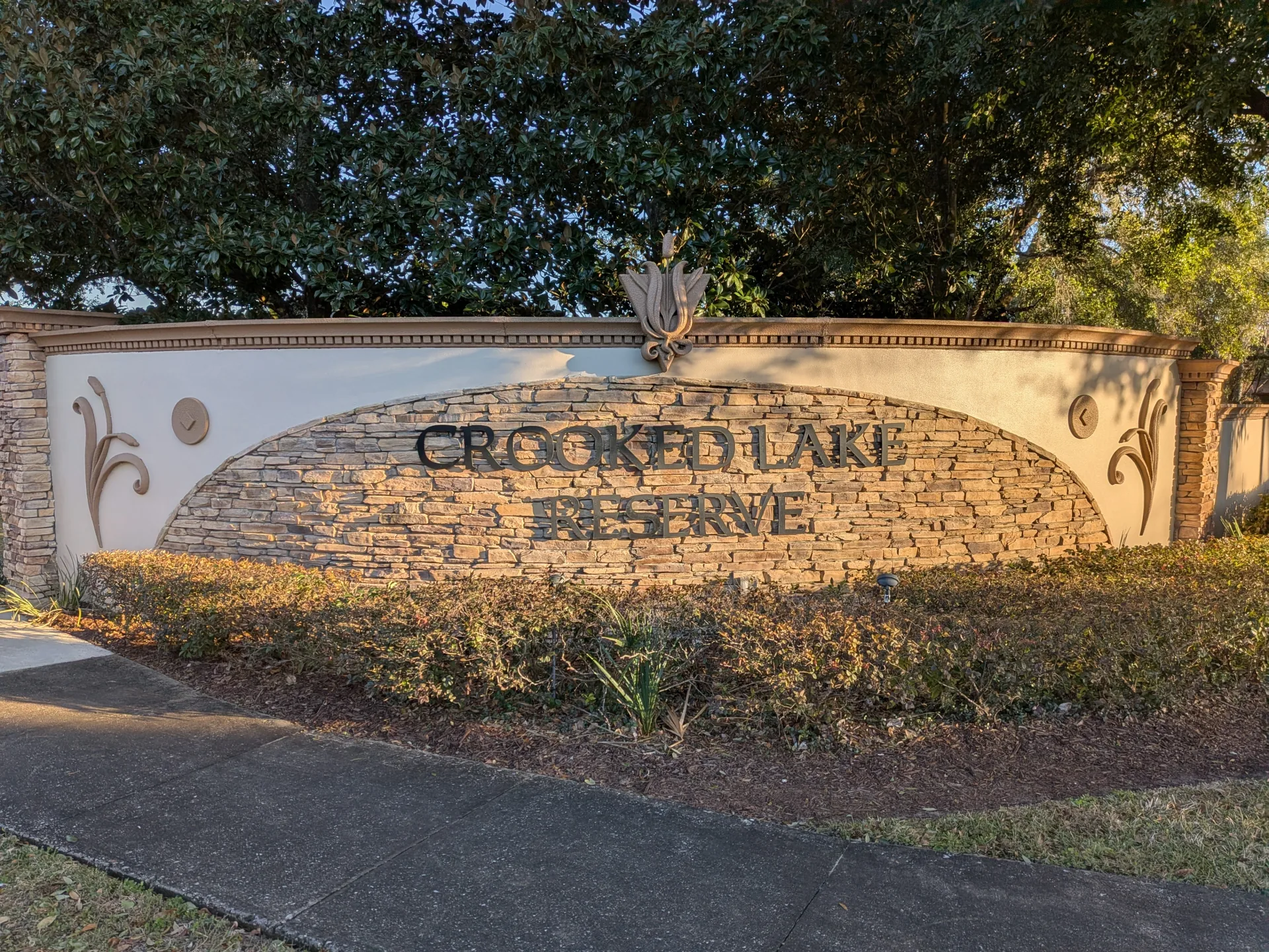
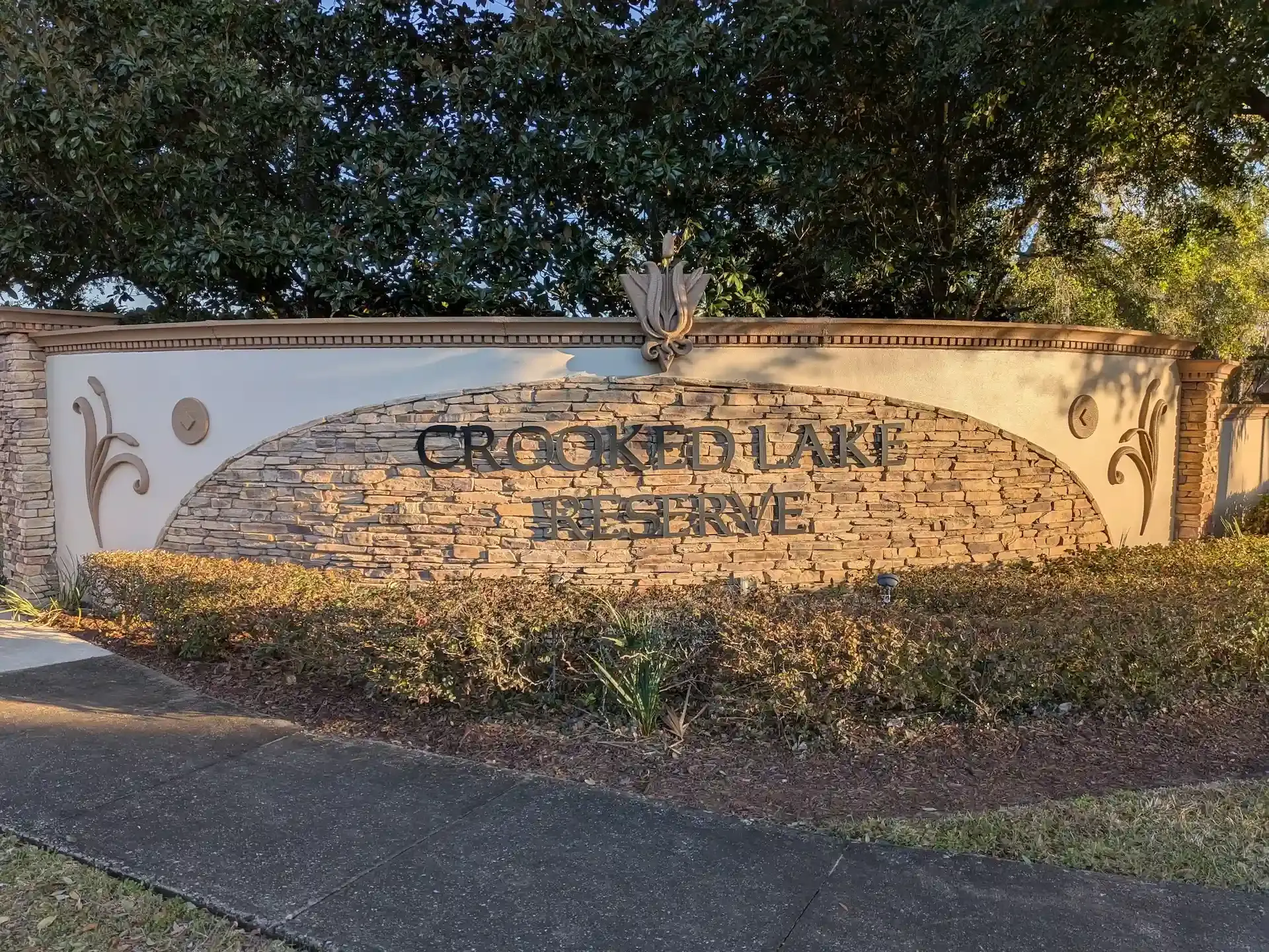
more more optimizations

diff --git a/scripts/defer-index-css.js b/scripts/defer-index-css.js
@@ -1,8 +1,7 @@
 /**
- * Post-build: make all _assets stylesheets on index.html non-render-blocking.
- * Astro injects about + emergency-contacts CSS into the index page; we defer
- * both so no CSS blocks render (LCP is the hero image, which doesn't need CSS).
- * Run after: npm run build
+ * Post-build: make the second _assets stylesheet on index.html non-render-blocking.
+ * Deferring only the second keeps one CSS file blocking so initial layout is correct (avoids CLS).
+ * Deferring both caused large layout shift when CSS loaded. Run after: npm run build
  */
 
 import { readFile, writeFile } from 'fs/promises';
@@ -15,19 +14,16 @@ const indexPath = join(__dirname, '..', 'dist', 'index.html');
 const html = await readFile(indexPath, 'utf8');
 
 const re = /<link rel="stylesheet" href="(\/_assets\/[^"]+\.css)"\s*>/g;
-const hrefs = [];
-const deferred = html.replace(re, (full, href) => {
-  hrefs.push(href);
-  return `<link rel="stylesheet" href="${href}" media="print" onload="this.media='all'">`;
+let count = 0;
+const newHtml = html.replace(re, (full, href) => {
+  count++;
+  if (count === 2) {
+    return `<link rel="stylesheet" href="${href}" media="print" onload="this.media='all'">`;
+  }
+  return full;
 });
-
-// Noscript fallback so no-JS users still get styles
-const noscript = hrefs.length
-  ? `<noscript>${hrefs.map((h) => `<link rel="stylesheet" href="${h}">`).join('')}</noscript>`
-  : '';
-const newHtml = deferred.replace('</head>', `${noscript}</head>`);
 
 if (newHtml !== html) {
   await writeFile(indexPath, newHtml);
-  console.log('Deferred all stylesheets on index.html (non-render-blocking).');
+  console.log('Deferred second stylesheet on index.html (non-render-blocking).');
 }

diff --git a/scripts/optimize-hero-images.js b/scripts/optimize-hero-images.js
@@ -12,7 +12,7 @@ const __dirname = fileURLToPath(new URL('.', import.meta.url));
 const publicDir = join(__dirname, '..', 'public');
 const heroOutDir = join(publicDir, 'hero');
 const MAX_WIDTH = 1920;
-const WEBP_QUALITY = 82;
+const WEBP_QUALITY = 78;
 
 async function optimizeHeroImages() {
   let sharp;

diff --git a/docs/OPTIMIZATIONS.md b/docs/OPTIMIZATIONS.md
@@ -34,10 +34,14 @@ This document outlines the performance optimizations implemented in the site.
 - **Effect**: Automatically inlines small stylesheets
 - **Benefit**: Reduces HTTP requests for small CSS files
 
-### Post-build: Defer all CSS on homepage
+### Post-build: Defer second CSS on homepage
 
-- **Issue**: Astro’s CSS code-splitting injects multiple page CSS chunks (e.g. about + emergency-contacts) into `index.html`, causing render-blocking requests.
-- **Fix**: `scripts/defer-index-css.js` runs as `postbuild` and makes **all** `/_assets/*.css` stylesheets on `dist/index.html` non-blocking (`media="print"` then `onload="this.media='all'"`). No CSS blocks initial render; LCP (hero image) paints immediately. A `<noscript>` block is added so users without JS still get styles.
+- **Issue**: Astro injects two CSS chunks (about + emergency-contacts) into `index.html`; both would block render.
+- **Fix**: `scripts/defer-index-css.js` defers only the **second** stylesheet so one file blocks (correct initial layout, avoids CLS). Deferring both caused large layout shift when CSS loaded.
+
+### Fonts and CLS
+
+- **font-display: optional** in the Google Fonts URL so the browser does not swap in web fonts after first paint (avoids layout shift from font swap). First-time visitors may see system fallback fonts; repeat visits use cached web fonts.
 
 ## Runtime Optimizations
 
@@ -82,7 +86,7 @@ This document outlines the performance optimizations implemented in the site.
    - Format: WebP (see `src/config/hero.ts`)
    - Max dimensions: 1920×1080px (or 1920×1280 for taller hero)
    - **Target file size: under 300KB each.** Lighthouse flags images over ~500KB; 2–5 MB hero images add several seconds to load.
-   - **Build step:** Run `npm run optimize:hero` before deploy (uses `sharp` to resize to max 1920px and re-encode WebP at quality 82). Requires `npm install` (sharp is a devDependency).
+   - **Build step:** Run `npm run optimize:hero` before deploy (uses `sharp` to resize to max 1920px and re-encode WebP at quality 78 for smaller files). Requires `npm install` (sharp is a devDependency).
    - Manual: [Squoosh](https://squoosh.app) (WebP, quality 80–85), or `cwebp -q 82 -resize 1920 0 input.jpg -o hero.webp`
 
 2. **Current behavior**:
